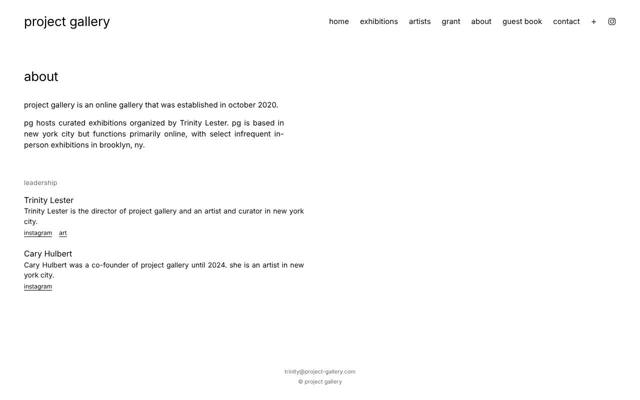
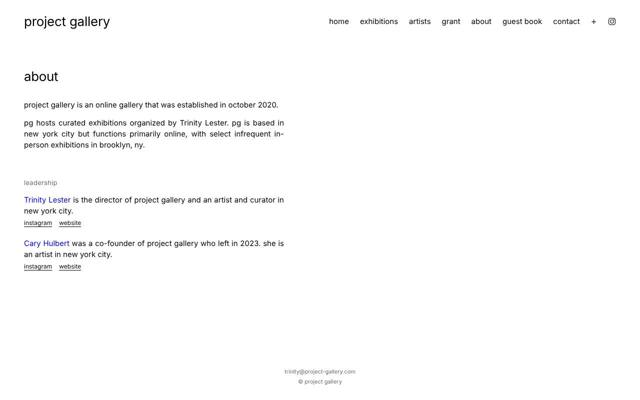
About: names lead each bio in blue with their art on hover, website links, justified text on one width; remove artworks counter
Claude-Session: https://claude.ai/code/session_01JDvyBS7JT6BmRY19jA3qLE

Changed region(s): [[0.0312, 0.48, 0.4688, 0.75]]

diff --git a/index.html b/index.html
@@ -357,10 +357,12 @@ body.arriving #view-show { animation: arrive 1.4s cubic-bezier(.16, .8, .3, 1) b
 
 /* about: leadership */
 .sub-head { font-size: 13px; font-weight: 400; color: var(--muted); margin: 56px 0 14px; padding: 0; border: 0; }
-.people { display: grid; gap: 22px; max-width: 560px; }
-.person p { margin: 0; text-align: justify; font-size: 14px; }
-.person .who { font-size: 16px; display: inline-block; cursor: default; }
-.person .who:hover { color: var(--accent); }
+.people { display: grid; gap: 22px; max-width: 520px; }
+#view-about .prose, #view-about .people { max-width: 520px; }
+#view-about .prose p, #view-about .person p { text-align: justify; }
+.person p { margin: 0; text-align: justify; font-size: 15px; }
+.person .who { color: var(--accent); cursor: default; }
+.person .who:hover { text-decoration: underline; text-underline-offset: 3px; }
 .person .links { margin-top: 4px; font-size: 12px; display: flex; gap: 14px; }
 .person .links a { text-decoration: underline; text-underline-offset: 3px; }
 .person .links a:hover { color: var(--accent); }
@@ -861,7 +863,7 @@ function renderArtists() {
   Object.values(SHOW_CARDS).forEach(c => { const m = /^(?:curated|juried) by (.+)$/.exec(c.note || ""); if (m) m[1].split(/ and |, /).forEach(n => curators.add(n.trim())); });
   const since = new Date(2020, 9, 1), now = new Date();
   const years = now.getFullYear() - since.getFullYear() - (now.getMonth() < since.getMonth() ? 1 : 0);
-  const C = [[people.size, "artists shown"], [order.length, "exhibitions"], [curators.size, "curators"], [STATS.artworks, "artworks shown"], [years, "years online, since october 2020"]];
+  const C = [[people.size, "artists shown"], [order.length, "exhibitions"], [curators.size, "curators"], [years, "years online, since october 2020"]];
   const box = document.getElementById("aa-counters");
   box.innerHTML = C.map(([n, l]) => `<div class="counter"><b>${n}</b><span>${esc(l)}</span></div>`).join("");
 
@@ -1518,8 +1520,7 @@ document.getElementById("ex-archive").addEventListener("mouseover", e => {
 function renderPeople() {
   const box = document.getElementById("people");
   box.innerHTML = (LEADERSHIP || []).map((p, i) => `<div class="person">
-      <span class="who" data-i="${i}">${esc(p.name)}</span>
-      <p>${esc(p.bio)}</p>
+      <p><span class="who" data-i="${i}">${esc(p.name)}</span> ${esc(p.bio)}</p>
       <div class="links">${(p.links || []).filter(l => l.url).map(l => `<a href="${esc(l.url)}" target="_blank" rel="noopener">${esc(l.text)}</a>`).join("")}</div>
     </div>`).join("");
   const pv = document.getElementById("nav-preview"), pvImg = pv.querySelector("img");

diff --git a/content.js b/content.js
@@ -165,10 +165,8 @@ const PAST_EXHIBITIONS = [
   // { year: 2025, title: "TD Reade: cancel my prayer", dates: "10.05.2025 – 11.05.2025" },
 ];
 
-// NUMBERS for the artist archive counters (the others are counted automatically)
-const STATS = {
-  artworks: 333        // placeholder until we count every work
-};
+// NUMBERS for the artist archive counters are counted automatically.
+const STATS = {};
 
 // ARTIST ARCHIVE: one line per artist per show, like a spreadsheet.
 //   show:      the show's key in SHOW_CARDS (gives the title and year)
@@ -819,20 +817,20 @@ const NEWSLETTER = {
 const LEADERSHIP = [
   {
     name: "Trinity Lester",
-    bio: "Trinity Lester is the director of project gallery and an artist and curator in new york city.",
-    image: "images/archive/archive-08.jpg",
+    bio: "is the director of project gallery and an artist and curator in new york city.",
+    image: "images/about/trinity-lester.jpg",
     links: [
       { text: "instagram", url: "https://www.instagram.com/triiinity.lester/" },
-      { text: "art", url: "https://trinitylester.com" }
+      { text: "website", url: "https://trinitylester.com" }
     ]
   },
   {
     name: "Cary Hulbert",
-    bio: "Cary Hulbert was a co-founder of project gallery until 2024. she is an artist in new york city.",
-    image: "images/archive/archive-07.jpg",
+    bio: "was a co-founder of project gallery who left in 2023. she is an artist in new york city.",
+    image: "images/about/cary-hulbert.jpg",
     links: [
       { text: "instagram", url: "https://www.instagram.com/cary_hulbert/" },
-      { text: "art", url: "" }
+      { text: "website", url: "https://www.caryhulbert.com/" }
     ]
   }
 ];
